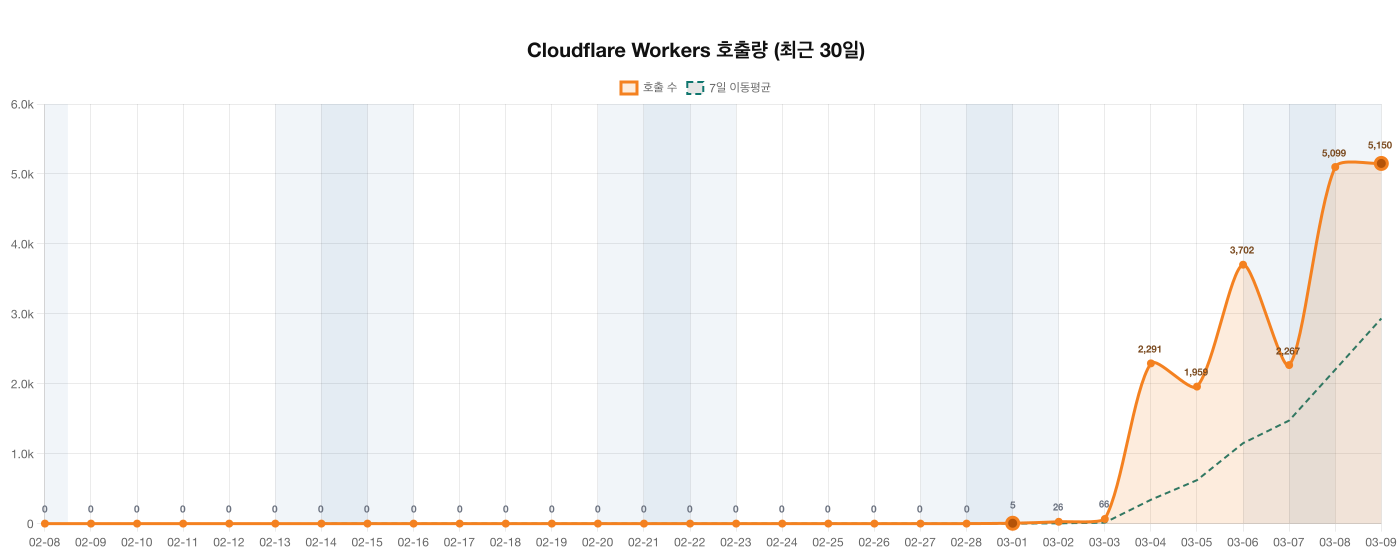
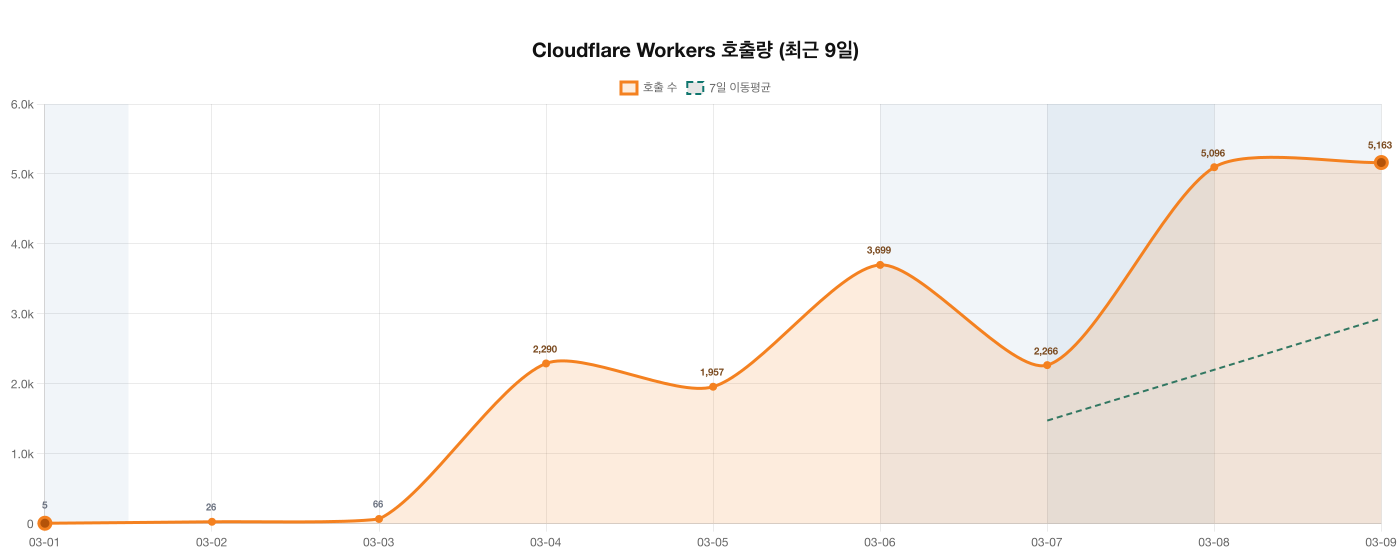
feat: 워커 호출량 요약표와 시작일 고정 반영

Changed region(s): [[0.0307, 0.1821, 1.0, 1.0], [0.3686, 0.0607, 0.6143, 0.1214], [0.8907, 0.7589, 0.9214, 0.7893]]

diff --git a/README.md b/README.md
@@ -22,16 +22,21 @@
 <!-- WORKERS_INVOCATIONS_CHART:START -->
 <br>
 
-<h3>Cloudflare Workers 호출량 (최근 30일)</h3>
+<h3>Cloudflare Workers 호출량 (최근 9일)</h3>
 
-<img src="./assets/analytics/workers-invocations.png" alt="Cloudflare Workers 호출량 그래프 (최근 30일)" width="860">
+<img src="./assets/analytics/workers-invocations.png" alt="Cloudflare Workers 호출량 그래프 (최근 9일)" width="860">
 
-<p><strong>요약 지표</strong></p>
-<p><strong>전체 호출량:</strong> 20,565회 · <strong>일평균:</strong> 686회 · <strong>최근 7일:</strong> 20,534회</p>
-<p><strong>최대:</strong> 5,150회 (03-09) · <strong>최근:</strong> 5,150회 (03-09) · <strong>전일:</strong> 5,099회 (03-08)</p>
-<p><strong>전일 대비:</strong> +51회 (+1.0%)</p>
+| 지표          | 값              |
+| ------------- | --------------- |
+| 전체 호출량   | 20,568회        |
+| 일평균        | 2,285회         |
+| 최근 7일 합계 | 20,537회        |
+| 최대 호출량   | 5,163회 (03-09) |
+| 최근 호출량   | 5,163회 (03-09) |
+| 전일 호출량   | 5,096회 (03-08) |
+| 전일 대비     | +67회 (+1.3%)   |
 
-<sub>기준 워커: <code>daiso-mcp</code> · 마지막 갱신: 2026-03-09 21:56 KST</sub>
+<sub>기준 워커: <code>daiso-mcp</code> · 마지막 갱신: 2026-03-09 22:02 KST</sub>
 
 <!-- WORKERS_INVOCATIONS_CHART:END -->
 
